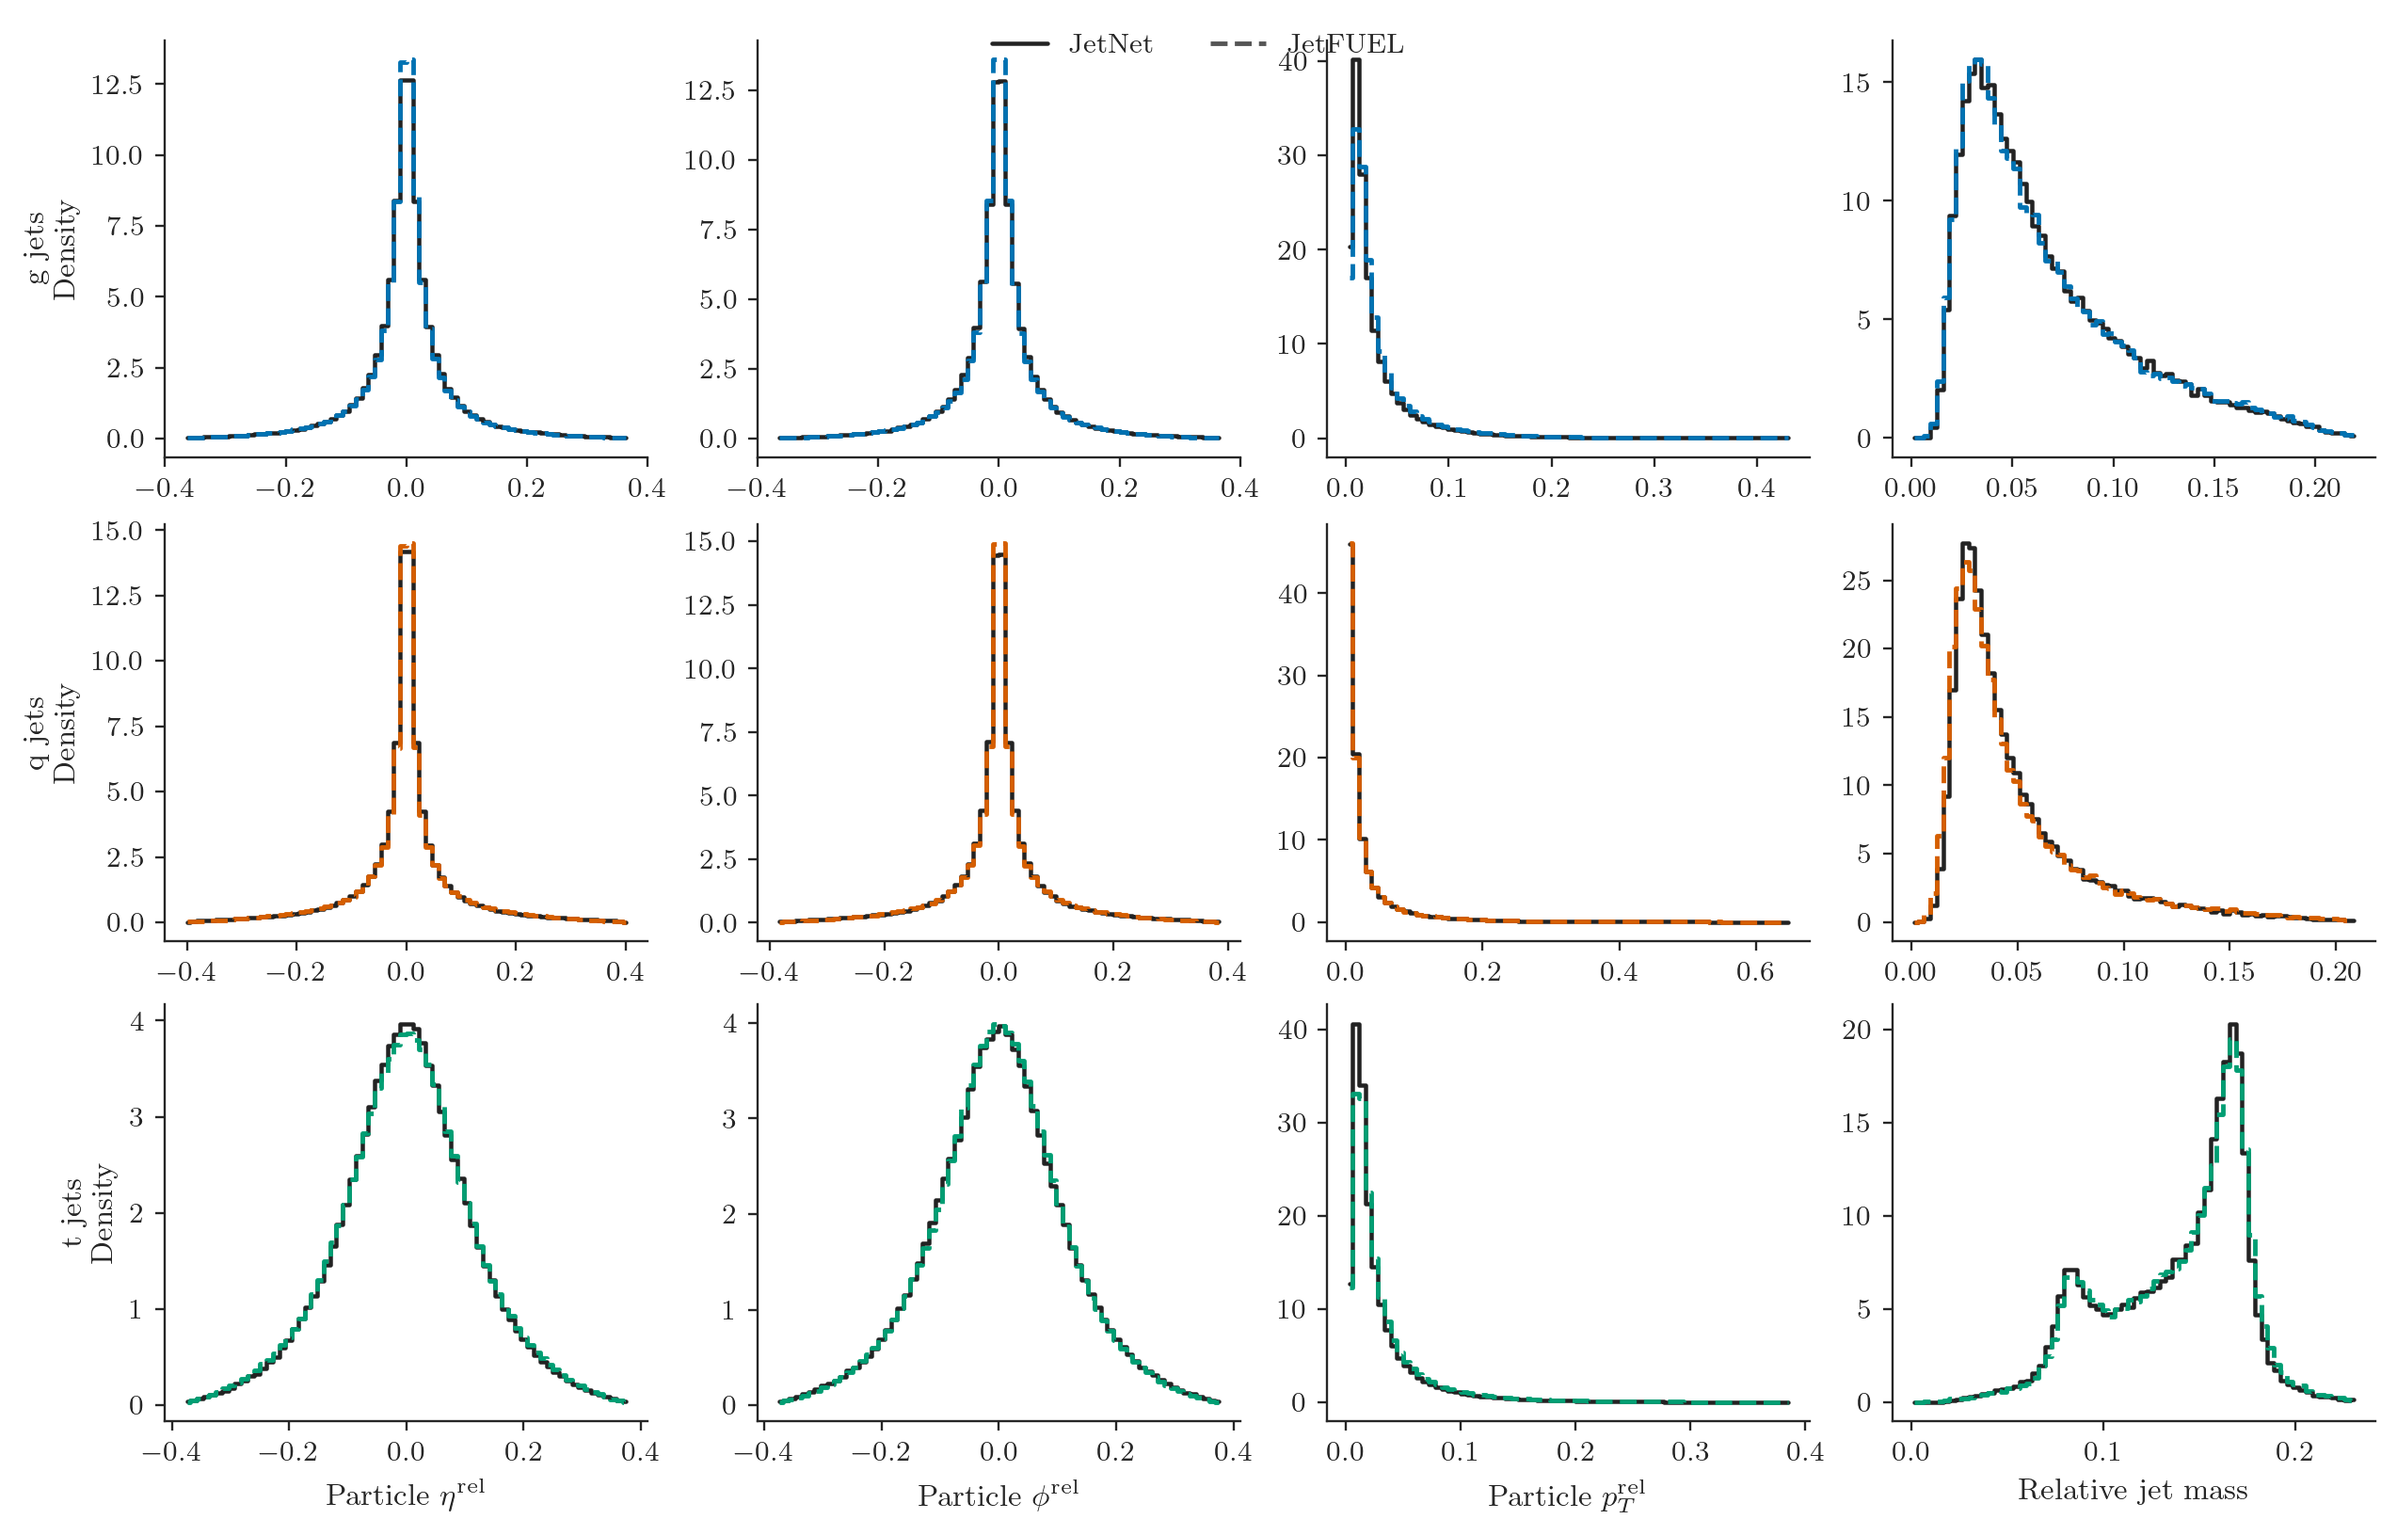
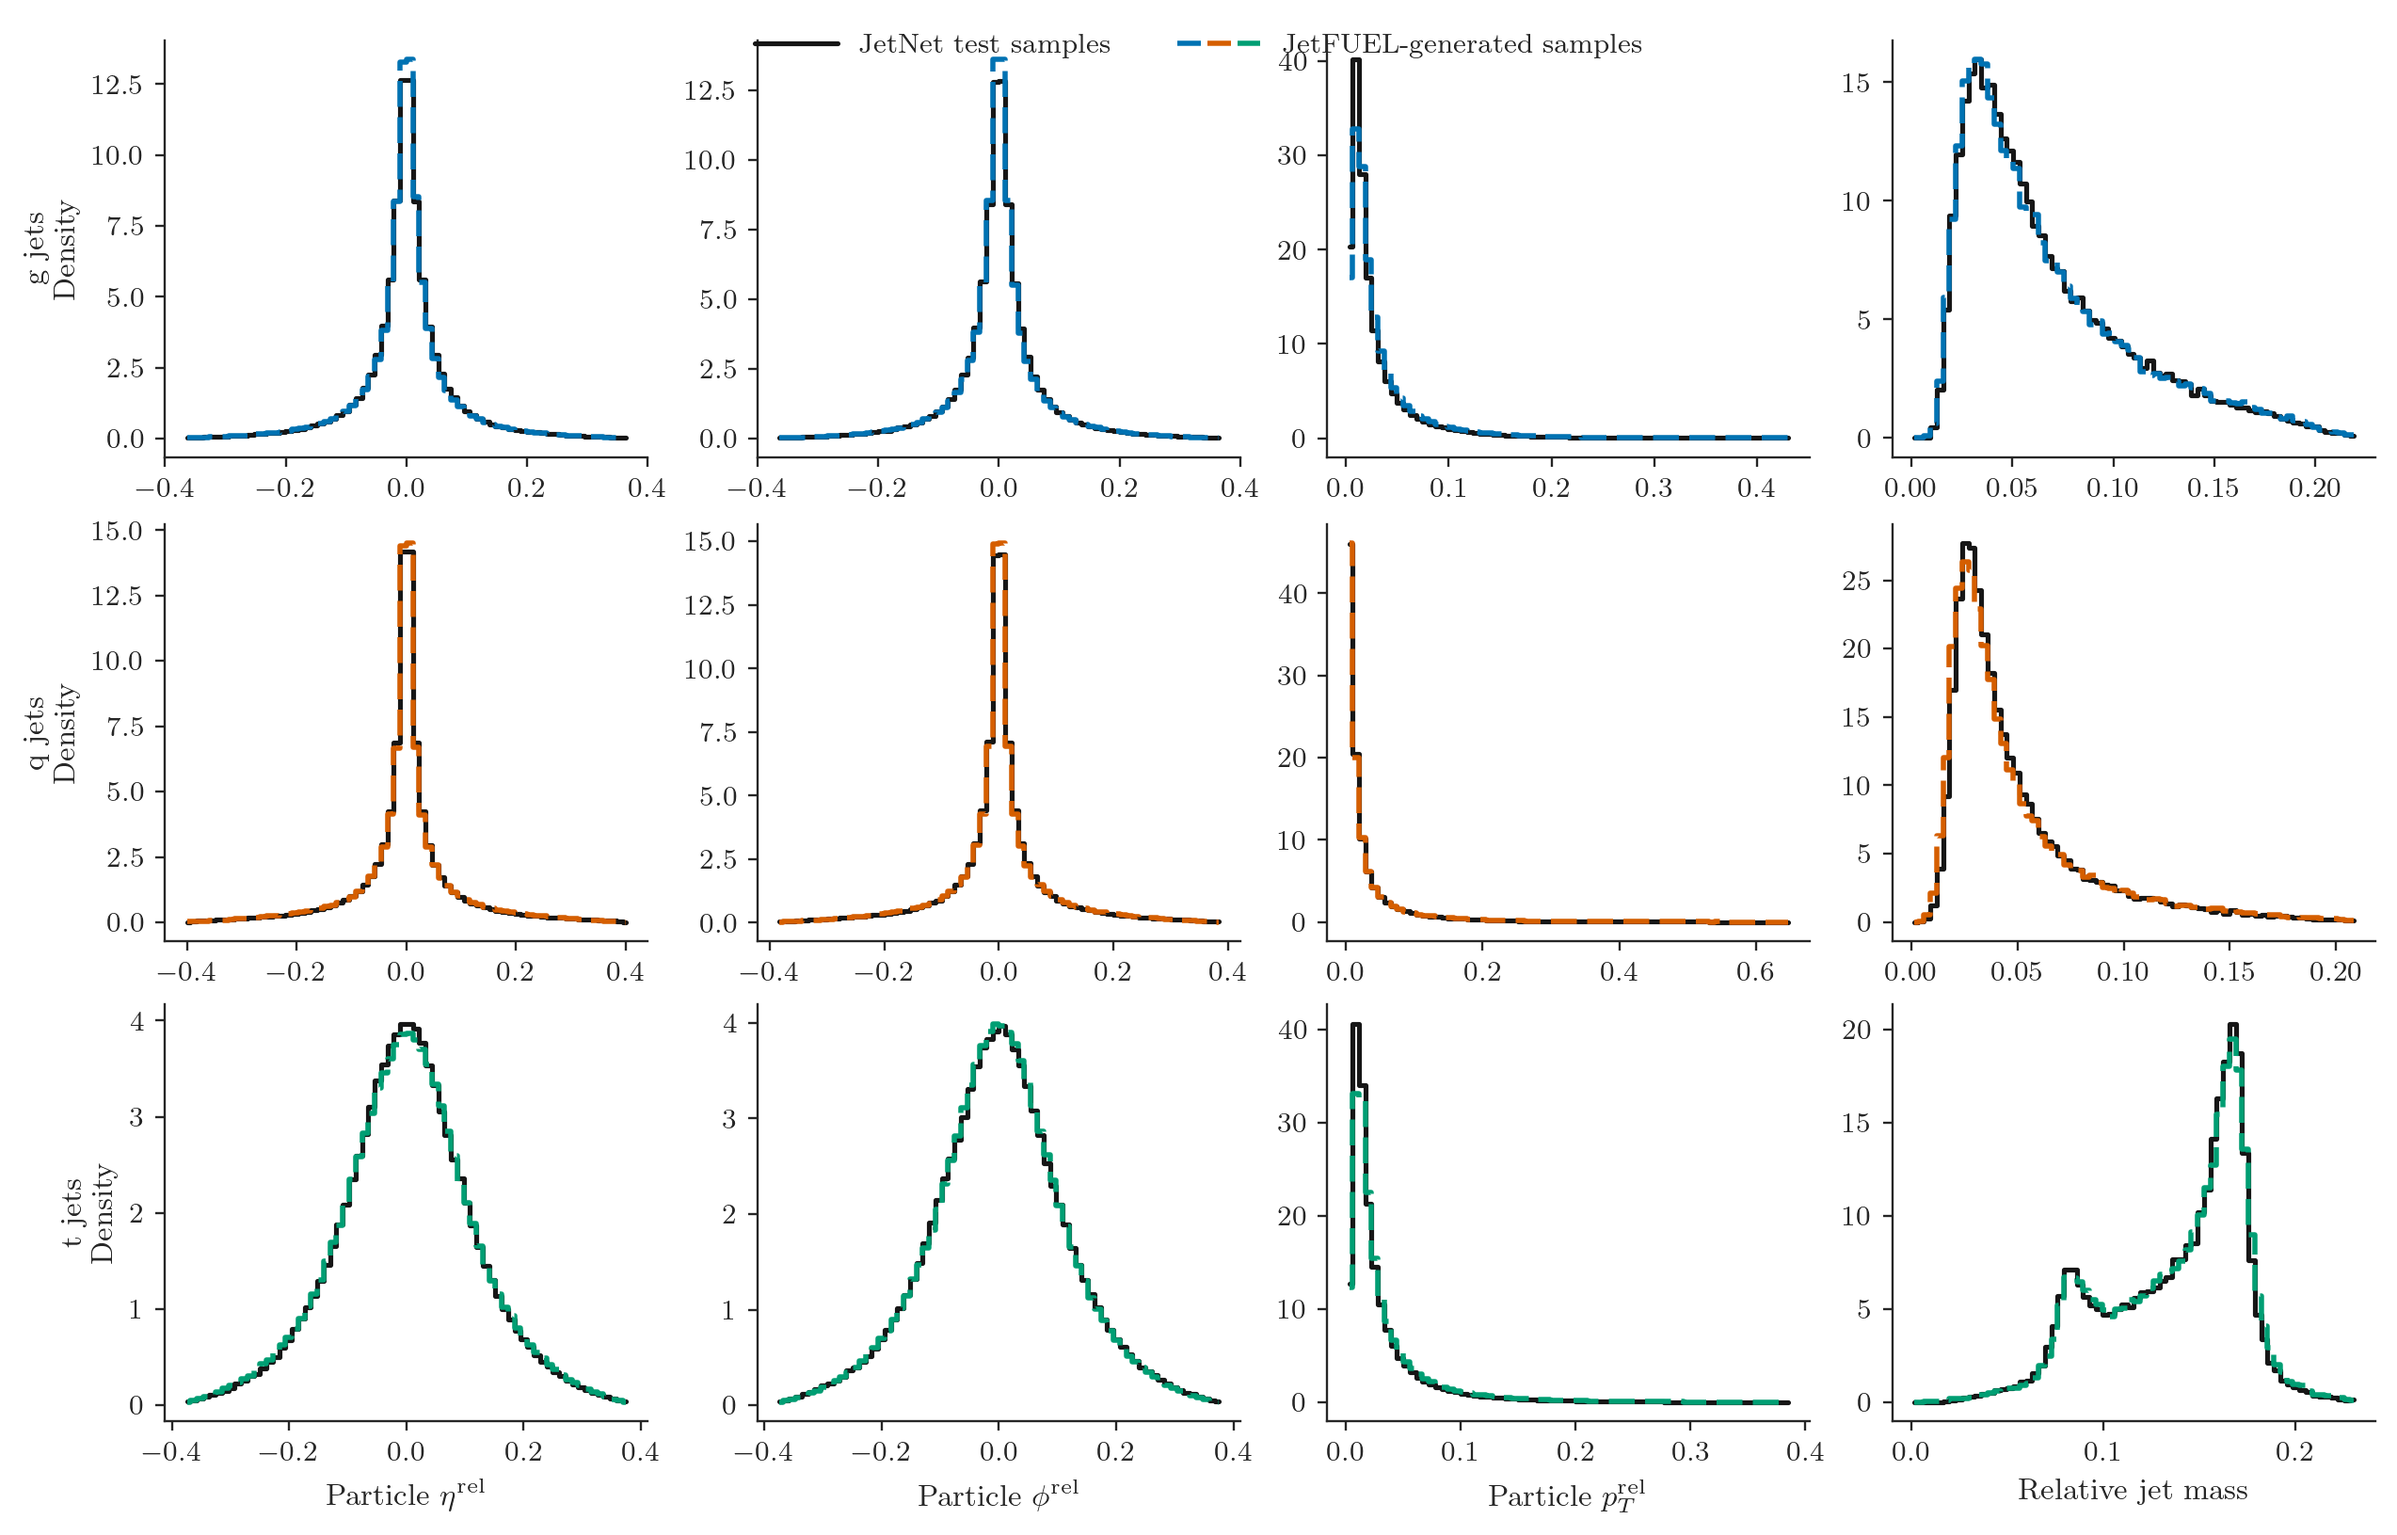
Clarify distribution comparison legend

diff --git a/src/analysis/generate_local_paper_plots.py b/src/analysis/generate_local_paper_plots.py
@@ -12,6 +12,7 @@ import matplotlib.pyplot as plt
 import numpy as np
 import seaborn as sns
 from matplotlib.lines import Line2D
+from matplotlib.legend_handler import HandlerTuple
 
 
 CLASS_COLORS = {"g": "#0072B2", "q": "#D55E00", "t": "#009E73"}
@@ -206,18 +207,28 @@ def plot_distributions(data_dir: Path, out_dir: Path) -> None:
             hist = class_data["histograms"][feature]
             edges = np.asarray(hist["edges"])
             centers = 0.5 * (edges[:-1] + edges[1:])
-            sns.lineplot(x=centers, y=hist["test_density"], color="#222222", lw=1.35,
+            sns.lineplot(x=centers, y=hist["test_density"], color="#161616", lw=1.55,
                          drawstyle="steps-mid", ax=ax)
             sns.lineplot(x=centers, y=hist["generated_density"], color=CLASS_COLORS[cls],
-                         lw=1.45, drawstyle="steps-mid", linestyle="--", ax=ax)
+                         lw=1.65, drawstyle="steps-mid", linestyle=(0, (5, 2)), ax=ax)
             ax.set_xlabel(xlabel if row == 2 else "")
             ax.set_ylabel(f"{cls} jets\nDensity" if col == 0 else "")
             quiet_axes(ax)
-    handles = [
-        Line2D([0], [0], color="#222222", lw=1.35, label="JetNet"),
-        Line2D([0], [0], color="#555555", lw=1.45, ls="--", label="JetFUEL"),
-    ]
-    fig.legend(handles=handles, loc="upper center", ncol=2, bbox_to_anchor=(0.5, 1.015))
+    reference_handle = Line2D([0], [0], color="#161616", lw=1.55)
+    generated_handle = tuple(
+        Line2D([0], [0], color=CLASS_COLORS[cls], lw=1.65, ls=(0, (5, 2)))
+        for cls in ("g", "q", "t")
+    )
+    fig.legend(
+        [reference_handle, generated_handle],
+        ["JetNet test samples", "JetFUEL-generated samples"],
+        handler_map={tuple: HandlerTuple(ndivide=None, pad=0.25)},
+        loc="upper center",
+        ncol=2,
+        columnspacing=2.4,
+        handlelength=3.0,
+        bbox_to_anchor=(0.5, 1.015),
+    )
     save(fig, out_dir, "selected_cfg_distributions")
 
 

diff --git a/output/pdf/paper_figures/jetfuel_2026-09-11/PLOT_CATALOG.md b/output/pdf/paper_figures/jetfuel_2026-09-11/PLOT_CATALOG.md
@@ -6,9 +6,10 @@ generate new samples or recompute physics metrics. Exact PVC sources are recorde
 
 ## Strongest main-text candidates
 
-1. `selected_cfg_distributions.pdf` — direct JetNet/JetFUEL overlays for relative
-   constituent $\eta$, $\phi$, and $p_T$, plus relative jet mass, using the selected
-   guidance value for each class. This is the closest counterpart to the MPGAN-style
+1. `selected_cfg_distributions.pdf` — direct overlays of JetNet test samples and
+   JetFUEL-generated samples for relative constituent $\eta$, $\phi$, and $p_T$,
+   plus relative jet mass, using the selected guidance value for each class. This
+   is the closest counterpart to the MPGAN-style
    distribution panel.
 2. `euler_step_scaling.pdf` — the cleanest inference ablation. It shows monotonic
    FPND improvement from 32 to 64 to 128 steps for every GQT class, with no retraining.
